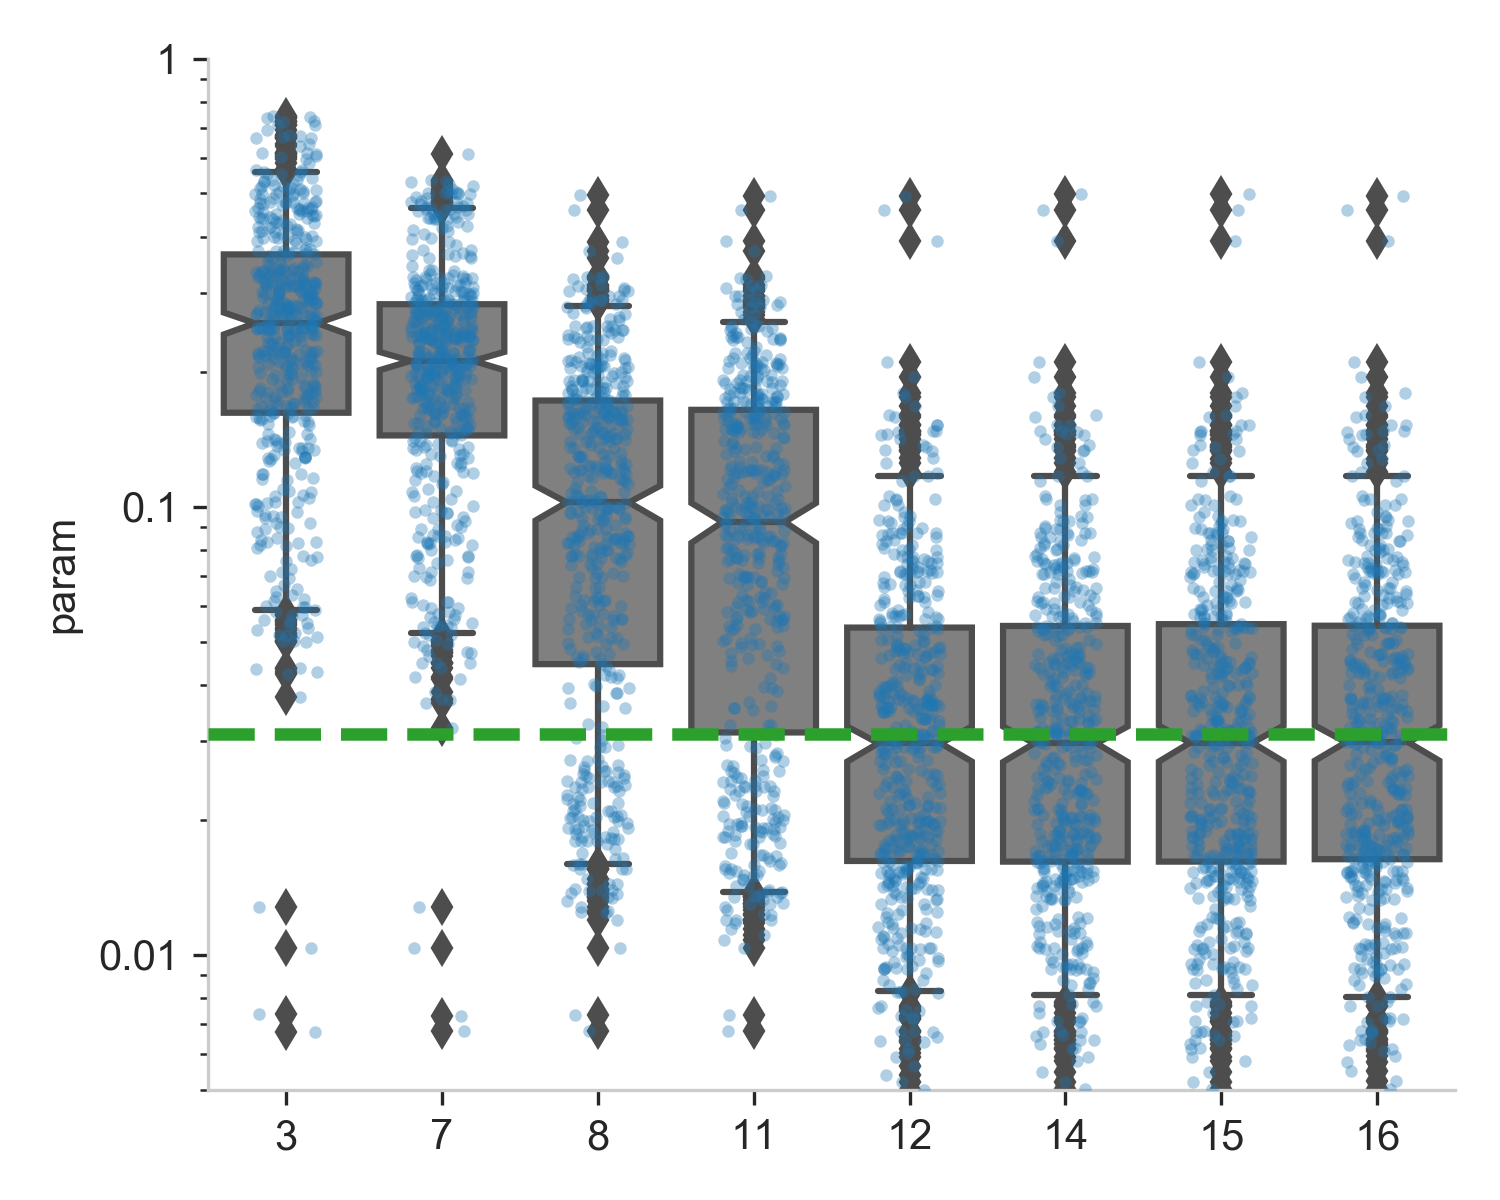
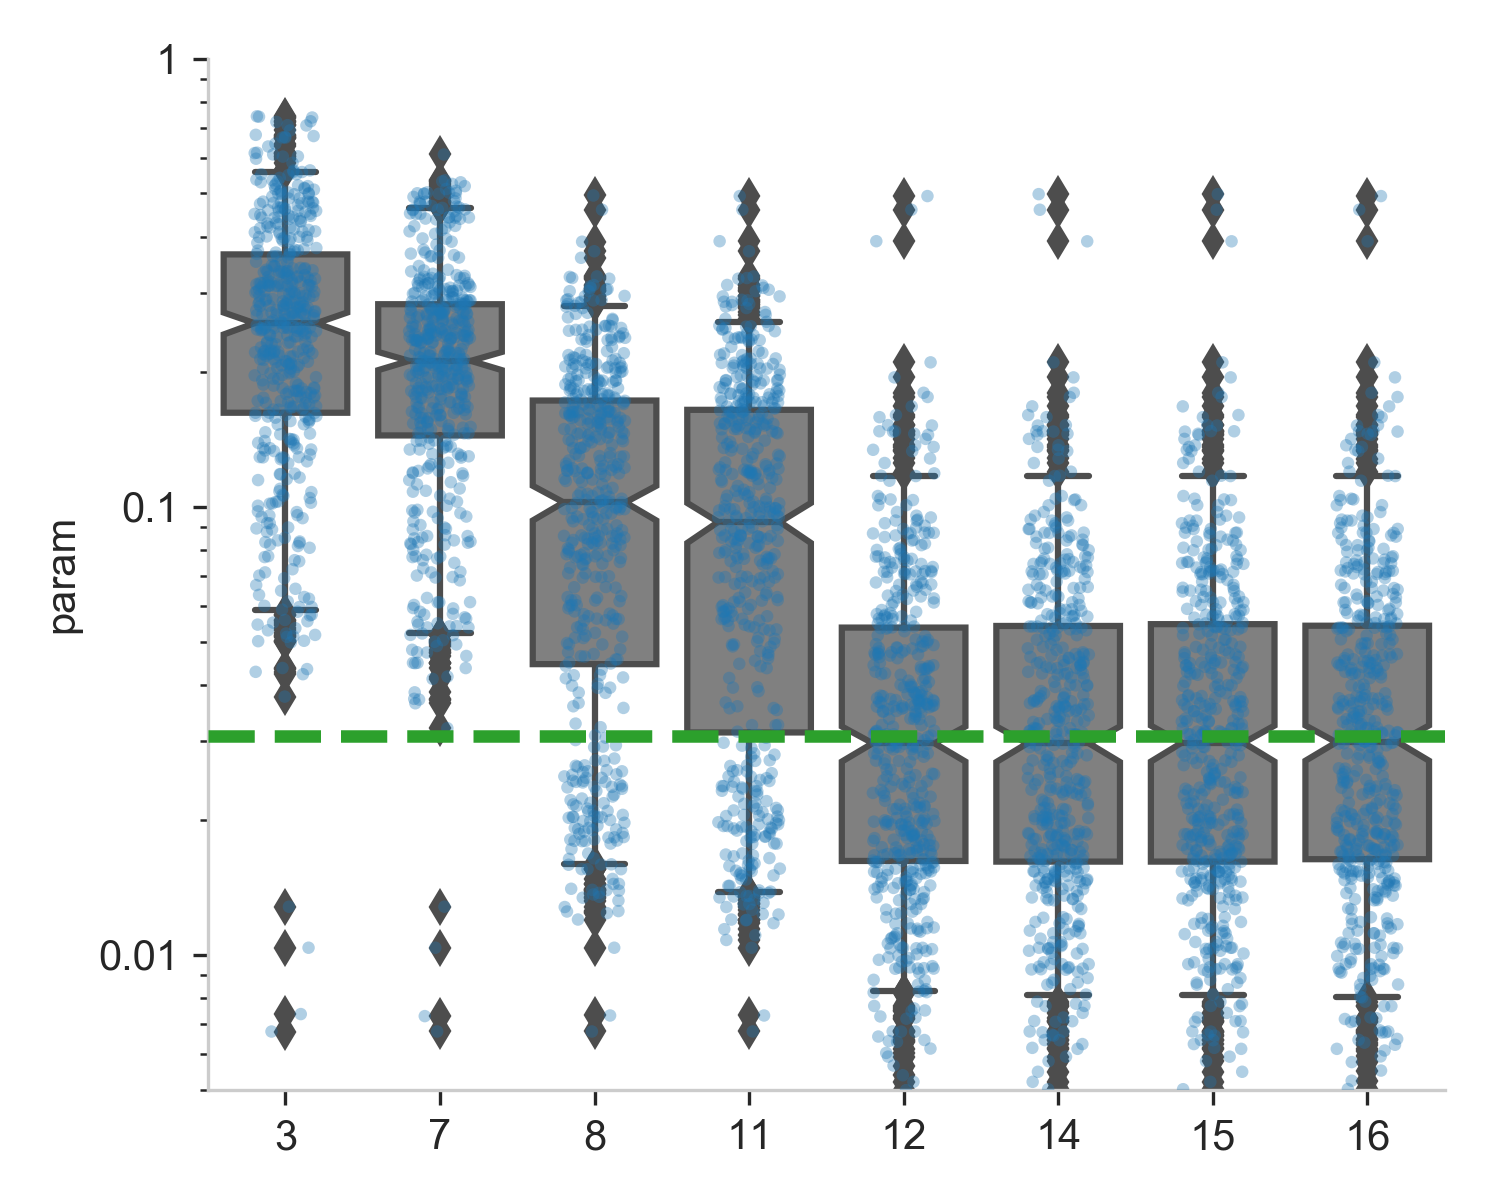
Add readme paragraph for Hantzsch reaction.
1. `hntz_discovery_timeline.py` works
2. Not yet working: 'plot_3d_map_for_hantzsch_by_HPLC.py'

diff --git a/robowski/visualize_results/examples/plot_3d_map_for_hantzsch_by_HPLC.py b/robowski/visualize_results/examples/plot_3d_map_for_hantzsch_by_HPLC.py
@@ -1,0 +1,99 @@
+import importlib
+import os
+import numpy as np
+import pandas as pd
+from matplotlib import pyplot as plt
+from scipy.integrate import odeint
+import itertools
+from scipy.optimize import curve_fit
+
+organize_run_results = importlib.import_module("misc-scripts.organize_run_results")
+avs = importlib.import_module("visualize-results.animated_viewer_static")
+
+
+data_folder = os.environ['ROBOCHEM_DATA_PATH'].replace('\\', '/') + '/'
+
+# HPLC_80 deg
+file_path = r'D:\Dropbox\robochem\data\BPRF\HPLC_results\Hantzsch_80\average_results_HPLCb.csv'
+# # HPLC_26 deg
+# file_path = r'C:\Users\UNIST\Dropbox\robochem\data\BPRF\HPLC_results\Hantzsch_26\average_results_HPLC_26.csv'
+# Load the CSV file into a DataFrame
+resultst_df = pd.read_csv(file_path)
+# column_to_plot = 'yield'
+column_to_plot = 'S'
+# 'HE+THP-19k', 'HE+19k-THP', '19k+THP-HE'
+# ['HE_c_HPLC','THP_c_HPLC', '19k_c_HPLC', '19j_c_HPLC', '19p_c_HPLC']
+# ['HE_ae_HPLC','THP_ae_HPLC', '19k_ae_HPLC', 'total_ae_HPLC']
+# substance_titles = ['19c','19a','19b']
+substance_titles = ['','','']
+xs = resultst_df['c#methoxybenzaldehyde'].to_numpy()*1000
+ys = resultst_df['c#ethyl_acetoacetate'].to_numpy()*1000
+zs = resultst_df['c#ammonium_acetate'].to_numpy()*1000
+
+# yields
+yields = resultst_df[column_to_plot].to_numpy()
+contours = np.linspace(min(yields), max(yields), 15)[1:-1].tolist()
+# ['HE_y_HPLC','THP_y_HPLC', '19k_y_HPLC', '19j_y_HPLC', '19p_y_HPLC' ]
+
+print(f'Min concentrations of substrates: {[np.min(x) for x in [xs, ys, zs]]}')
+print(f'Max concentrations of substrates: {[np.max(x) for x in [xs, ys, zs]]}')
+print(f'Yields - min: {min(yields)}, max: {max(yields)}')
+
+avs.plot_3d_dataset_as_cube(xs, ys, zs, yields,
+                                substance_titles=substance_titles,
+                                colorbar_title=column_to_plot,
+                                npoints=50, sparse_npoints=3, rbf_epsilon=0.01,
+                                rbf_smooth=0.01,
+                                interpolator_choice='rbf',
+                                data_for_spheres='interpolated',
+                                contour_opacity=0.8,
+                                forced_kmax=None,
+                                # axes_ticks_format='',
+                                axes_ticks_format='%.0f',
+                                axes_font_factor=1.0,
+                                # contours=[0.2,0.3,0.4])
+                                # contours = [0.1,0.2, 0.3, 0.4, 0.5, 0.6])
+                                contours=contours)
+
+# # concentrations
+# concentrations = resultst_df[column_to_plot].to_numpy()*1000
+# print(f'Min concentrations of substrates: {[np.min(x) for x in [xs, ys, zs]]}')
+# print(f'Max concentrations of substrates: {[np.max(x) for x in [xs, ys, zs]]}')
+# print(f'Product_c - min: {min(concentrations)}, max: {max(concentrations)}')
+#
+# avs.plot_3d_dataset_as_cube(xs, ys, zs, concentrations,
+#                                 substance_titles=substance_titles,
+#                                 colorbar_title=column_to_plot,
+#                                 npoints=50, sparse_npoints=3, rbf_epsilon=0.01,
+#                                 rbf_smooth=0.01,
+#                                 interpolator_choice='rbf',
+#                                 data_for_spheres='interpolated',
+#                                 contour_opacity=0.3,
+#                                 forced_kmax=31,
+#                                 axes_ticks_format='',
+#                                 # axes_ticks_format='%.0f',
+#                                 axes_font_factor=1.3,
+#                                 # contours=[0.2,0.3,0.4])
+#                                 # contours = [0.2, 0.3, 0.4, 0.5, 0.6])
+#                                 contours=[5, 10, 15, 20, 25, 30])
+# ae
+# ae = resultst_df[column_to_plot].to_numpy()
+# print(f'Min concentrations of substrates: {[np.min(x) for x in [xs, ys, zs]]}')
+# print(f'Max concentrations of substrates: {[np.max(x) for x in [xs, ys, zs]]}')
+# print(f'Product_c - min: {min(ae)}, max: {max(ae)}')
+#
+# avs.plot_3d_dataset_as_cube(xs, ys, zs, ae,
+#                                 substance_titles=substance_titles,
+#                                 colorbar_title=column_to_plot,
+#                                 npoints=50, sparse_npoints=3, rbf_epsilon=0.01,
+#                                 rbf_smooth=0.01,
+#                                 interpolator_choice='rbf',
+#                                 data_for_spheres='interpolated',
+#                                 contour_opacity=0.3,
+#                                 forced_kmax=0.06,
+#                                 axes_ticks_format='',
+#                                 # axes_ticks_format='%.0f',
+#                                 axes_font_factor=1.3,
+#                                 # contours=[0.2,0.3,0.4])
+#                                 # contours = [0.2, 0.3, 0.4, 0.5, 0.6])
+#                                 contours=[0.02, 0.04])

diff --git a/robowski/misc_scripts/hntz_discovery_timeline.py b/robowski/misc_scripts/hntz_discovery_timeline.py
@@ -194,6 +194,8 @@ def plot_timeline(list_of_runs, list_of_calibrant_set_ids, param_to_plot='rmse',
 
     fig, ax = plt.subplots(figsize=(5, 4))
     sns.set_style('whitegrid')
+   # set the param column to float
+    overall_df['param'] = overall_df['param'].astype(float)
     ax = sns.boxplot(ax=ax, x='set_index', y='param', data=overall_df, color='grey', notch=True, whis=[5, 95])
     ax = sns.stripplot(ax=ax, x="set_index", y="param", data=overall_df, alpha=0.35, color='C0', jitter=0.2, size=3)
     # set y axis to log scale

diff --git a/README.md b/README.md
@@ -212,6 +212,10 @@ The Markov Chain Monte Carlo (MCMC) sampling is performed by routines in the `_e
 Covariance matrices are plotted by the `ugi_kinetics_v3_covplot.py` script based on the precalculated output
 of the scripts whose names contain `_perr_`, meaning "parameter errors analysis".
 
+#### Hantzsch reaction
+1. To reproduce the Figure 5a and Figure S99, run the `robowski/misc_scripts/hntz_discovery_timeline.py` script.
+2. To reproduce the main-text figure 5b, run the `robowski/misc_scripts/figures_for_articles/all_hantzsch_spectra_figure5b.py` script.
+3. To reproduce the Figure 5d, 5e and 5f, run the `TO BE ADDED`
 
 #### Reactions with prussian blue analogs
 
@@ -257,9 +261,6 @@ folder.
 ### Reproducing other figures from the accompanying research article
 
 To reproduce the main-text Figure 4j, run the `robowski/visualize_results/visualize_results.py` script.
-
-To reproduce the main-text figure 5b, run the `robowski/misc_scripts/figures_for_articles/all_hantzsch_spectra_figure5b.py` script.
-
 To reproduce the Figure S17 and recalculating the uncertainty map of the NanoDrop spectrophotometer,
 run the `robowski/uv-vis-absorption-spectroscopy/absorbance_errorbar_model.py` script.
 
